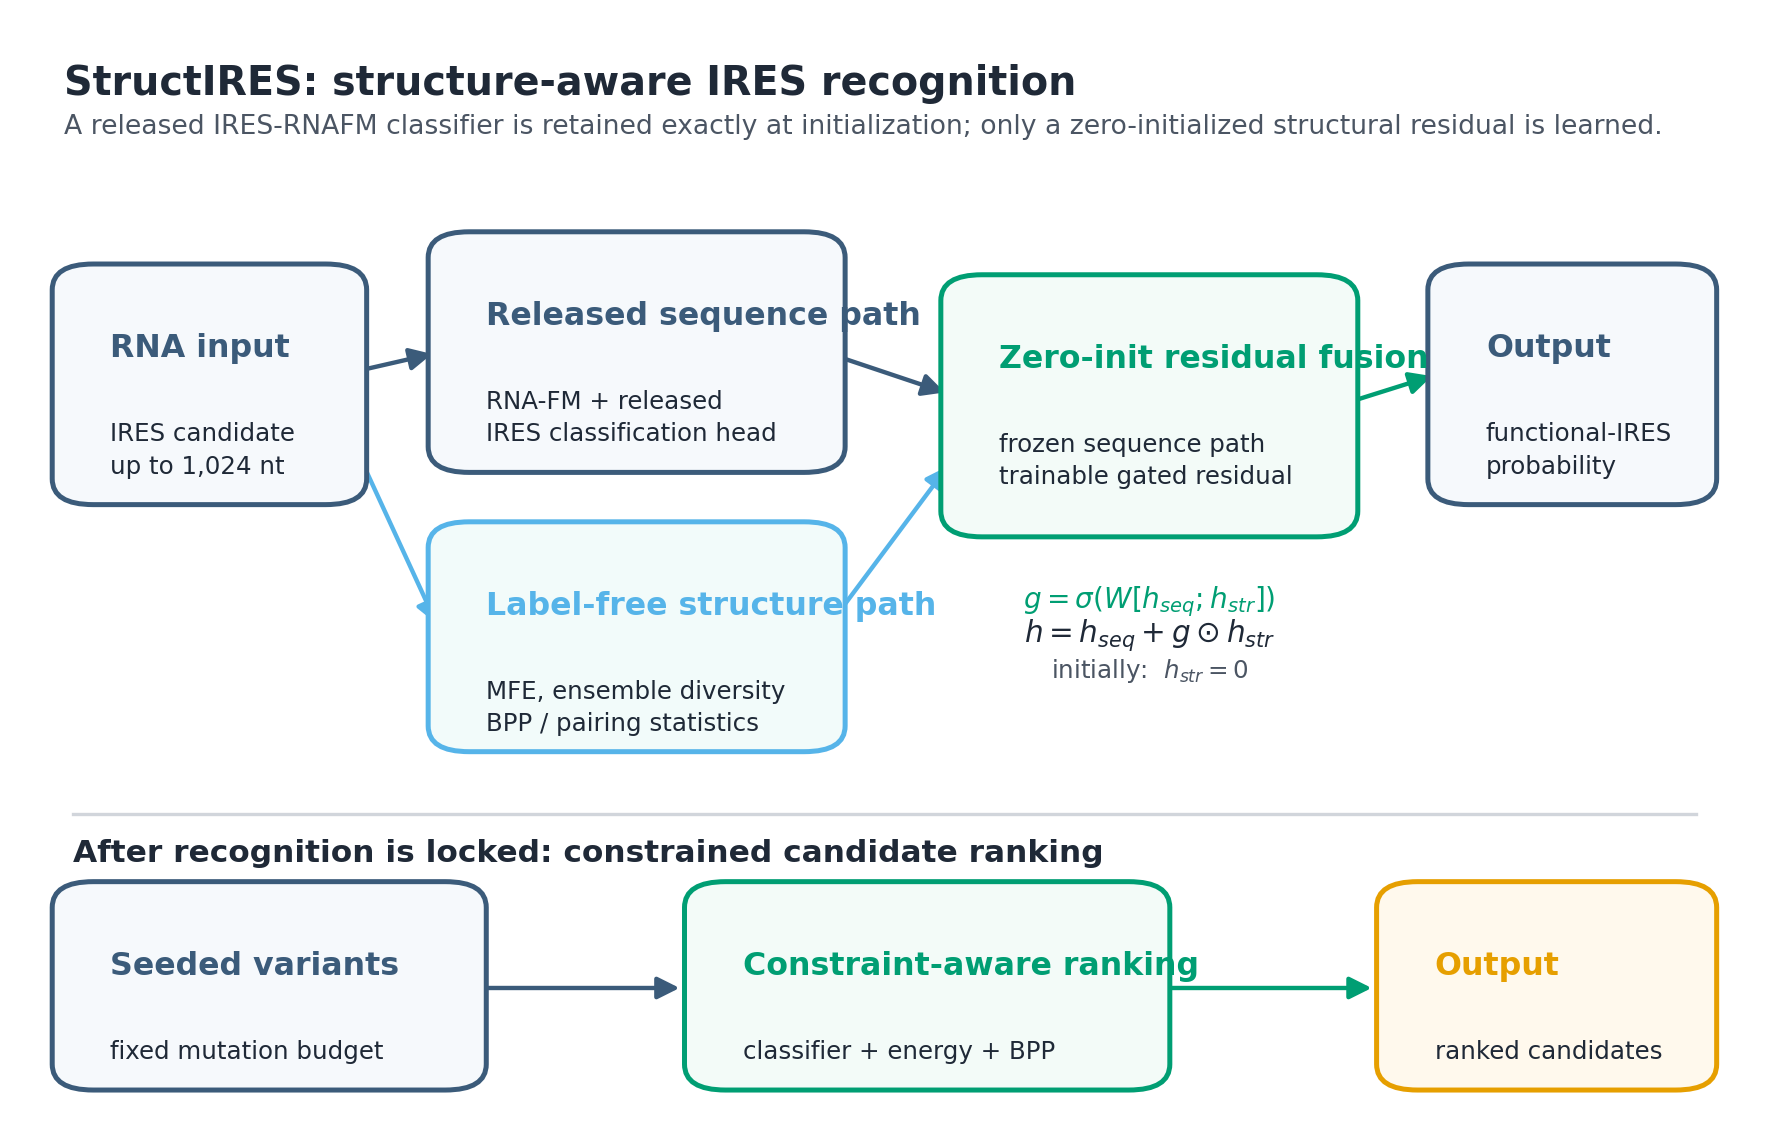
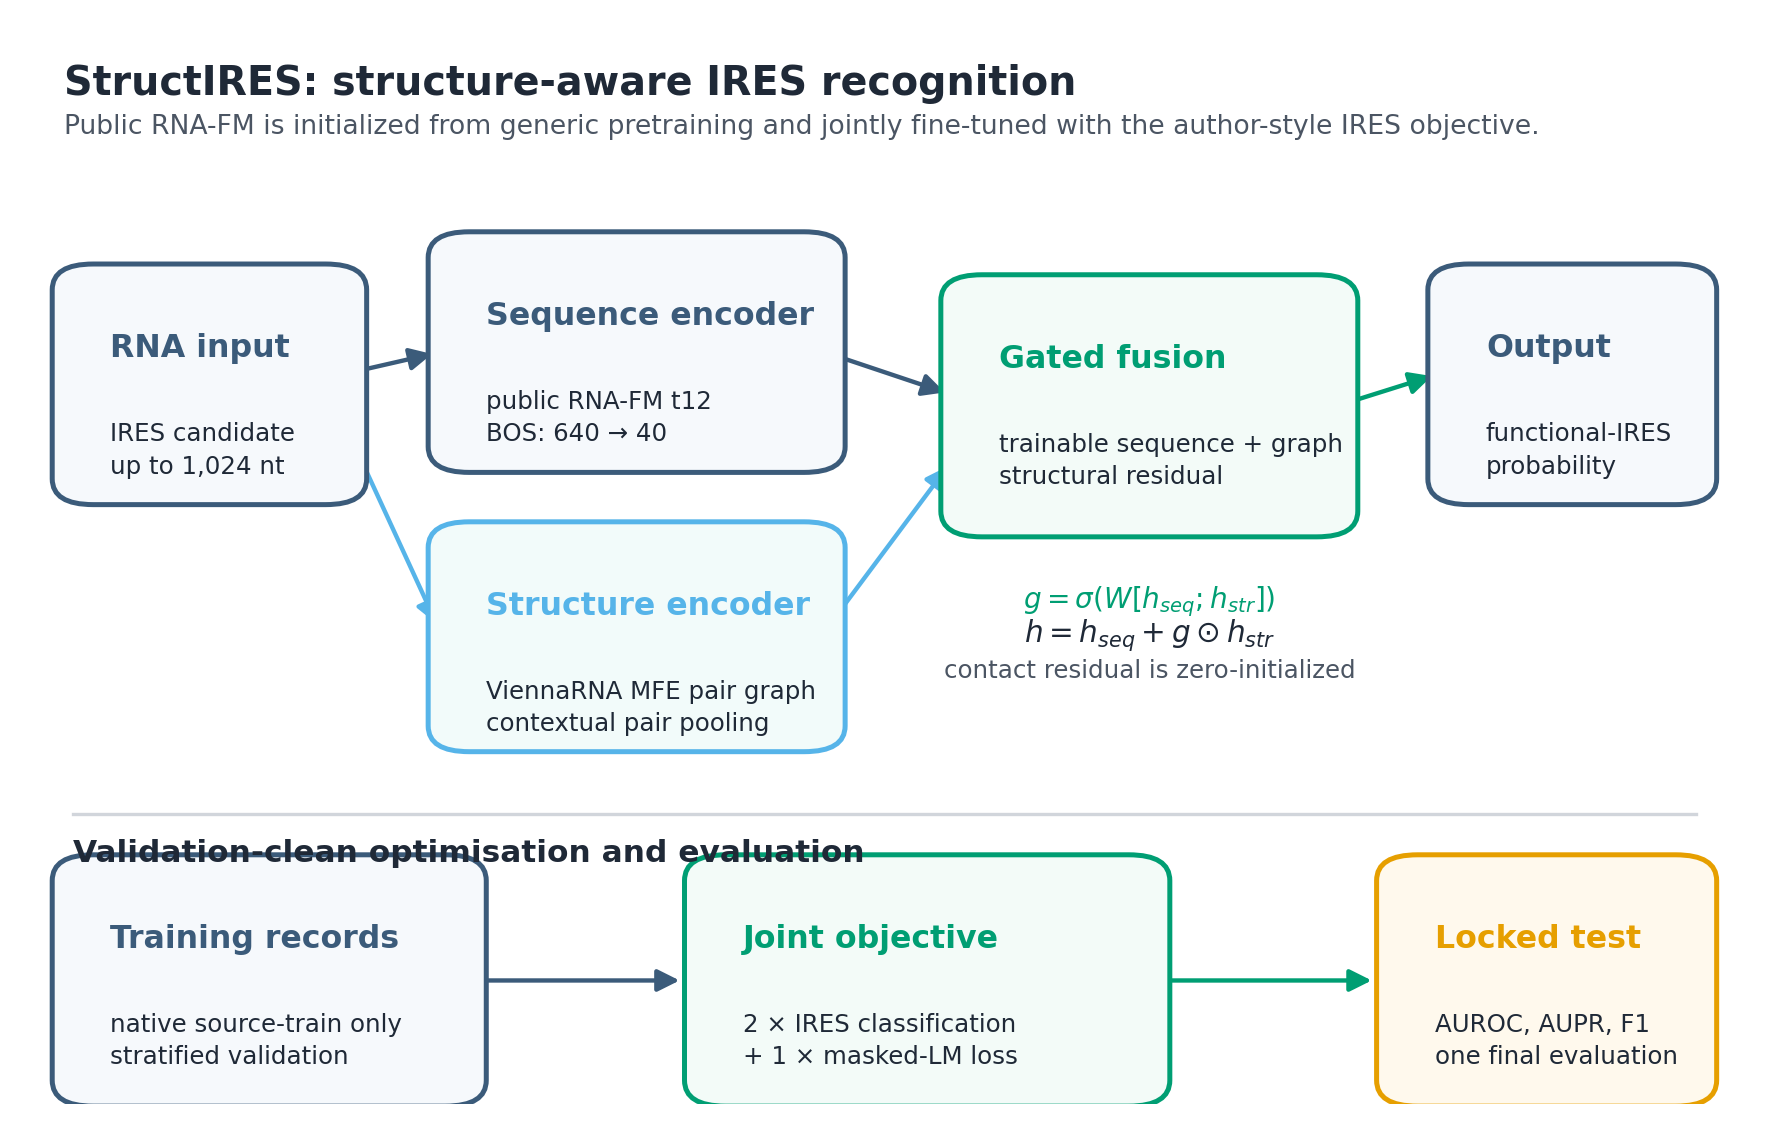
docs: align StructIRES classifier figure with native training

diff --git a/scripts/make_structires_classifier_overview_figure.py b/scripts/make_structires_classifier_overview_figure.py
@@ -33,13 +33,13 @@ def main() -> None:
     ax.set(xlim=(0, 1), ylim=(0, 1)); ax.axis("off")
     ax.text(.02, .968, "StructIRES: structure-aware IRES recognition", fontsize=9.5,
             color=INK, weight="bold", va="top")
-    ax.text(.02, .922, "A released IRES-RNAFM classifier is retained exactly at initialization; only a zero-initialized structural residual is learned.",
+    ax.text(.02, .922, "Public RNA-FM is initialized from generic pretraining and jointly fine-tuned with the author-style IRES objective.",
             fontsize=6.4, color="#4B5563", va="top")
 
     box(ax, .025, .57, .16, .20, "RNA input", ["IRES candidate", "up to 1,024 nt"], NAVY, "#F6F9FC")
-    box(ax, .245, .60, .22, .20, "Released sequence path", ["RNA-FM + released", "IRES classification head"], NAVY, "#F6F9FC")
-    box(ax, .245, .34, .22, .19, "Label-free structure path", ["MFE, ensemble diversity", "BPP / pairing statistics"], ENSEMBLE, "#F2FBFA")
-    box(ax, .545, .54, .22, .22, "Zero-init residual fusion", ["frozen sequence path", "trainable gated residual"], STRUCTIRES, "#F3FBF8")
+    box(ax, .245, .60, .22, .20, "Sequence encoder", ["public RNA-FM t12", "BOS: 640 → 40"], NAVY, "#F6F9FC")
+    box(ax, .245, .34, .22, .19, "Structure encoder", ["ViennaRNA MFE pair graph", "contextual pair pooling"], ENSEMBLE, "#F2FBFA")
+    box(ax, .545, .54, .22, .22, "Gated fusion", ["trainable sequence + graph", "structural residual"], STRUCTIRES, "#F3FBF8")
     box(ax, .83, .57, .145, .20, "Output", ["functional-IRES", "probability"], NAVY, "#F6F9FC")
     arrow(ax, (.185, .68), (.24, .70), NAVY)
     arrow(ax, (.185, .63), (.24, .44), ENSEMBLE)
@@ -48,15 +48,15 @@ def main() -> None:
     arrow(ax, (.765, .65), (.825, .68), STRUCTIRES)
     ax.text(.655, .462, r"$g=\sigma(W[h_{seq};h_{str}])$", fontsize=6.7, color=STRUCTIRES, ha="center")
     ax.text(.655, .430, r"$h=h_{seq}+g\odot h_{str}$", fontsize=7.1, color=INK, ha="center")
-    ax.text(.655, .397, "initially:  $h_{str}=0$", fontsize=5.9, color="#4B5563", ha="center")
+    ax.text(.655, .397, "contact residual is zero-initialized", fontsize=5.9, color="#4B5563", ha="center")
 
     ax.plot([.025, .975], [.27, .27], color="#D1D5DB", linewidth=.8)
-    ax.text(.025, .225, "After recognition is locked: constrained candidate ranking", fontsize=7.5, color=INK, weight="bold")
-    box(ax, .025, .025, .23, .170, "Seeded variants", ["fixed mutation budget"], NAVY, "#F6F9FC")
-    box(ax, .395, .025, .26, .170, "Constraint-aware ranking", ["classifier + energy + BPP"], STRUCTIRES, "#F3FBF8")
-    box(ax, .80, .025, .175, .170, "Output", ["ranked candidates"], ENERGY, "#FFF9ED")
-    arrow(ax, (.255, .108), (.385, .108), NAVY)
-    arrow(ax, (.655, .108), (.79, .108), STRUCTIRES)
+    ax.text(.025, .225, "Validation-clean optimisation and evaluation", fontsize=7.5, color=INK, weight="bold")
+    box(ax, .025, .010, .23, .210, "Training records", ["native source-train only", "stratified validation"], NAVY, "#F6F9FC")
+    box(ax, .395, .010, .26, .210, "Joint objective", ["2 × IRES classification", "+ 1 × masked-LM loss"], STRUCTIRES, "#F3FBF8")
+    box(ax, .80, .010, .175, .210, "Locked test", ["AUROC, AUPR, F1", "one final evaluation"], ENERGY, "#FFF9ED")
+    arrow(ax, (.255, .115), (.385, .115), NAVY)
+    arrow(ax, (.655, .115), (.79, .115), STRUCTIRES)
     OUTPUT.parent.mkdir(parents=True, exist_ok=True)
     fig.savefig(OUTPUT.with_suffix(".pdf"), bbox_inches="tight")
     fig.savefig(OUTPUT.with_suffix(".png"), dpi=300, bbox_inches="tight")
